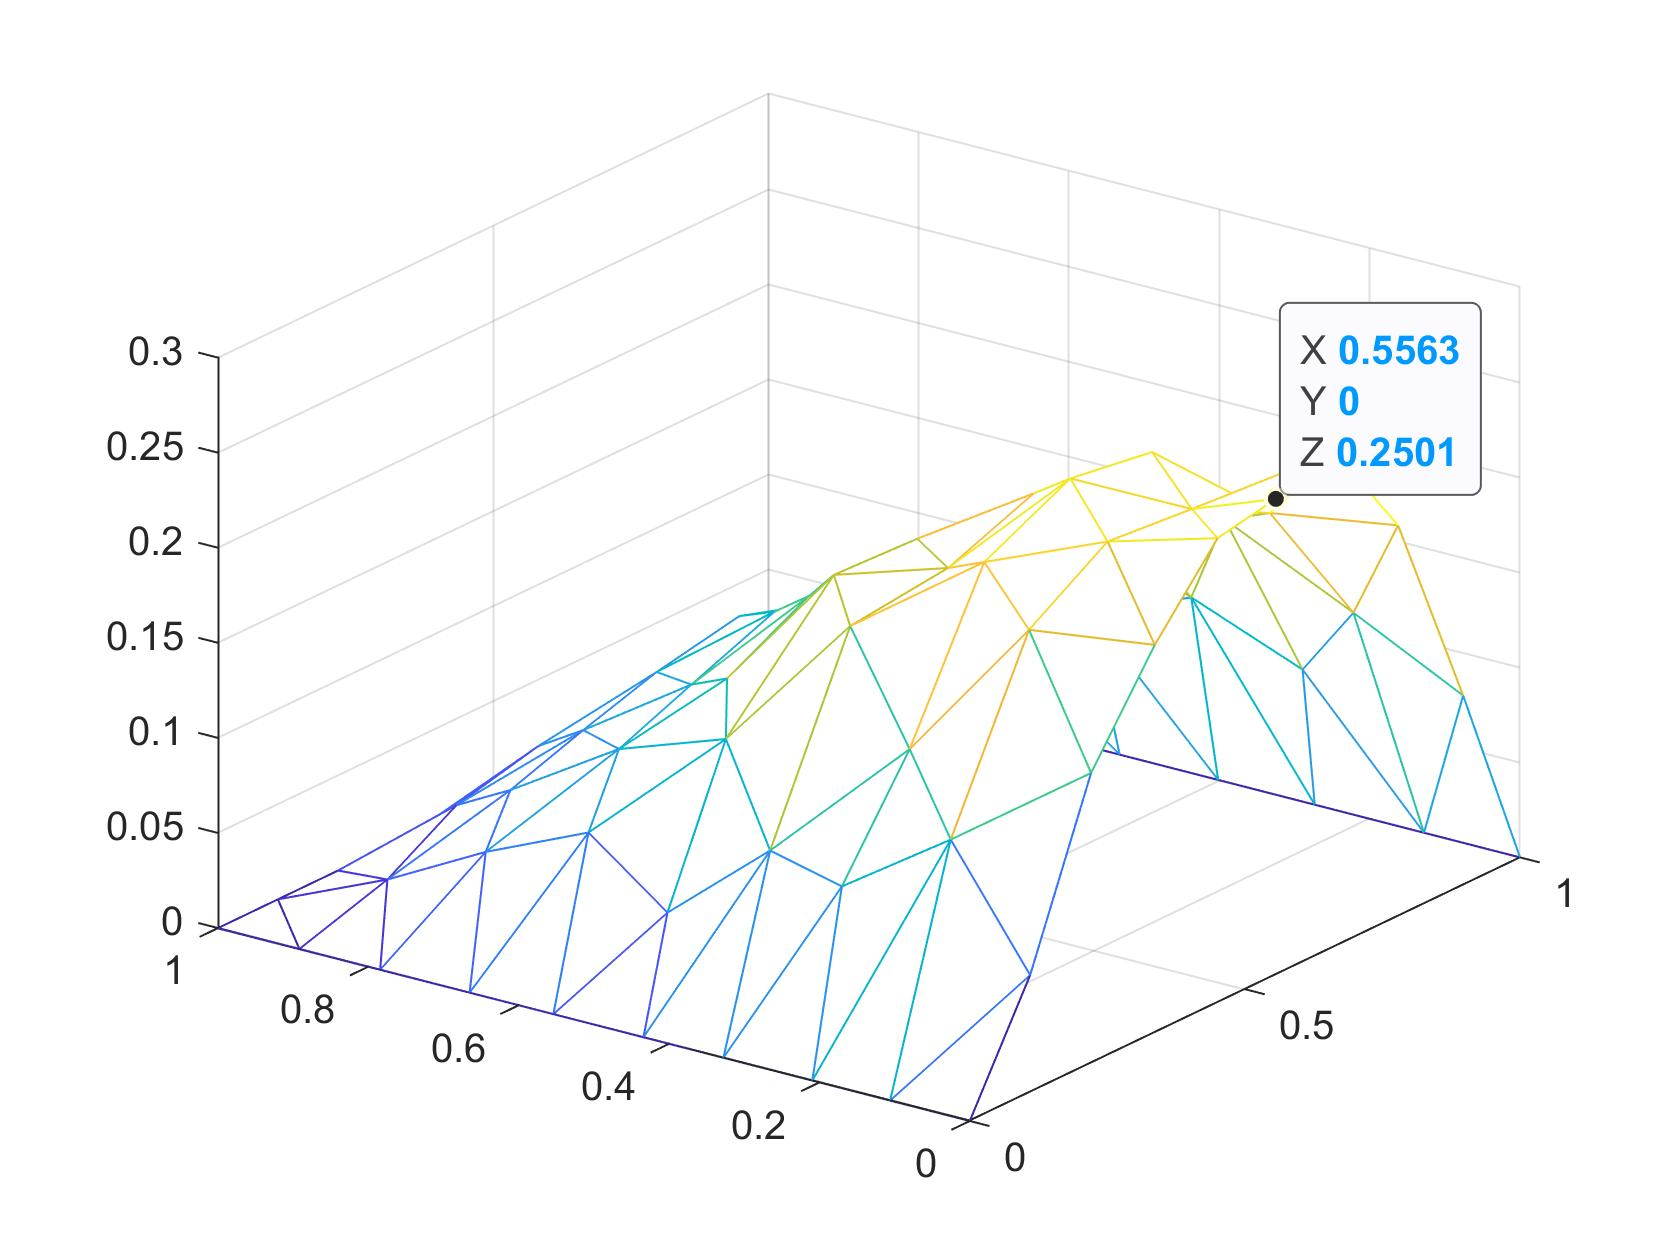
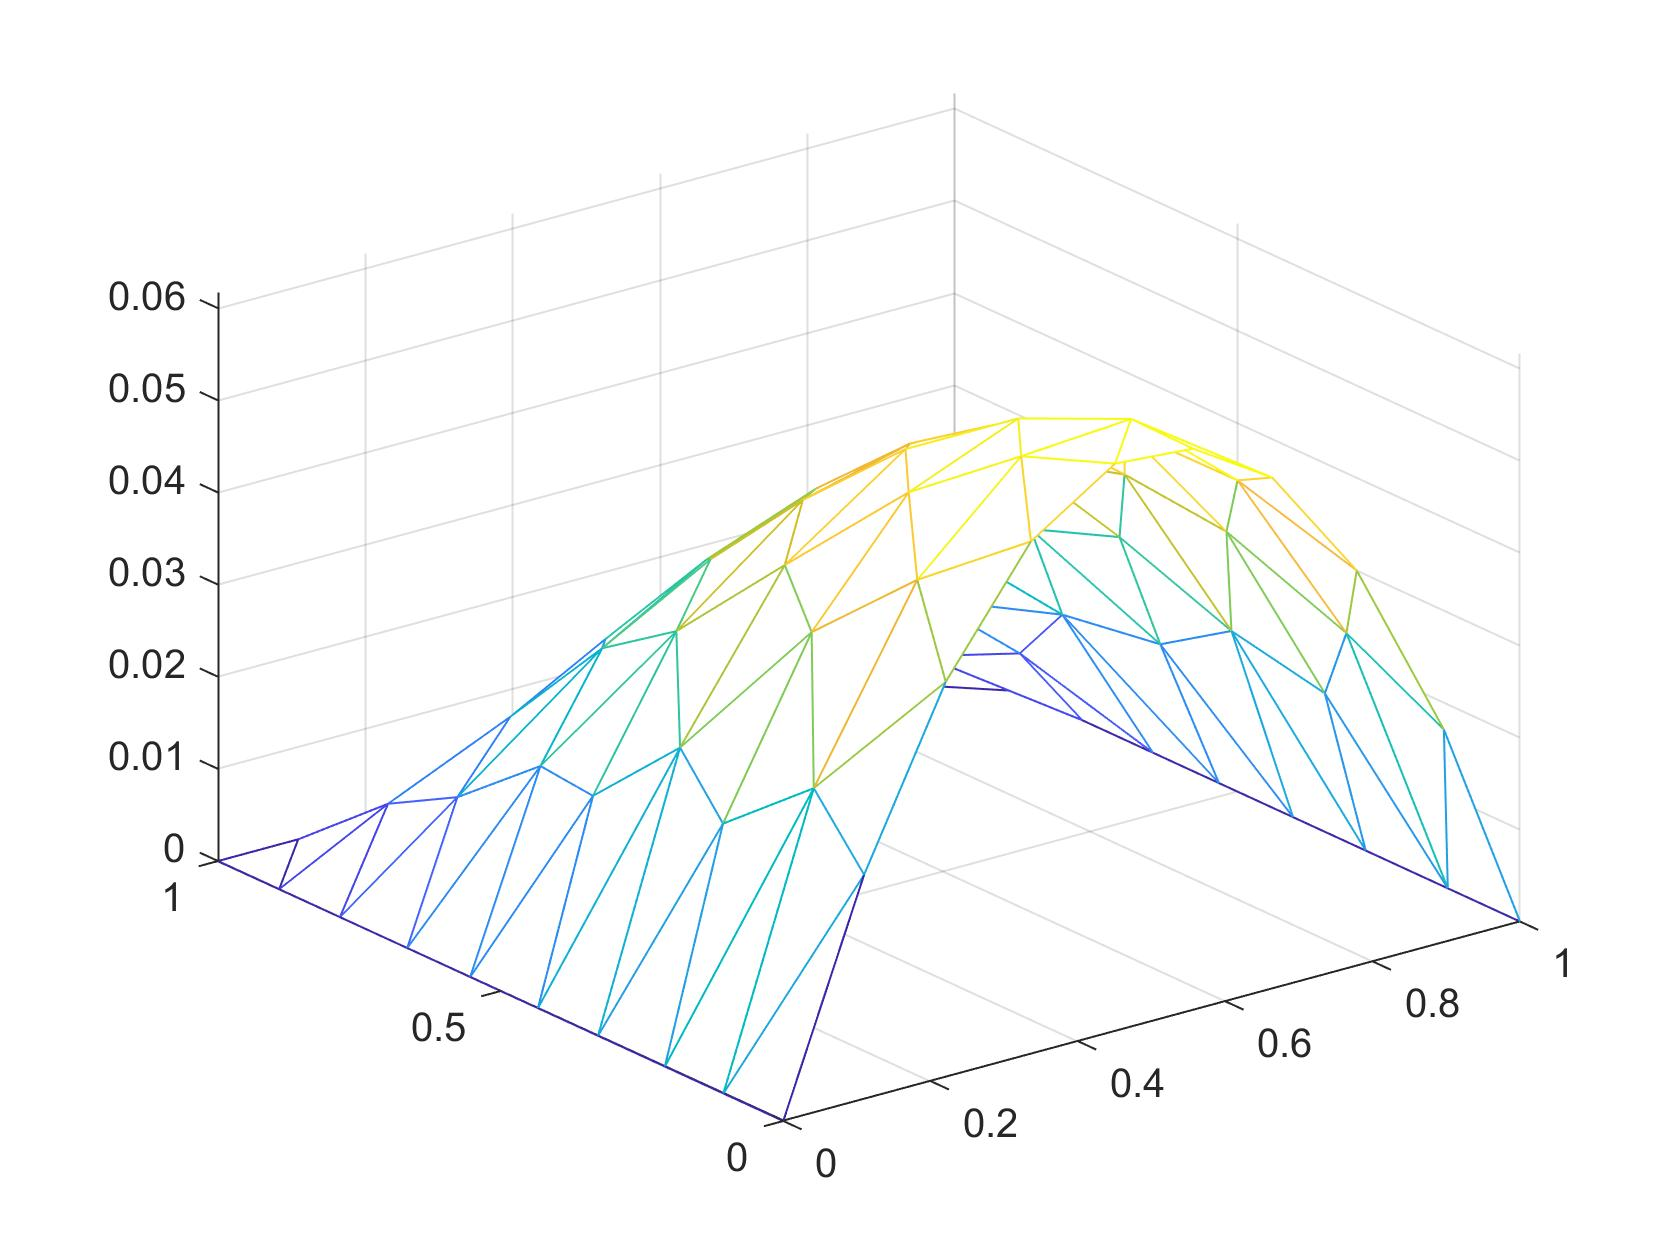
quadrature bug fix

diff --git a/2d/main_2d.m b/2d/main_2d.m
@@ -1,8 +1,8 @@
 clear all;
 
-assignin('base','filePath', 'C:\Users\monke\OneDrive\Desktop\5168\project\2d\Problem_2.2\Unstructured_Mesh');
+assignin('base','filePath', 'C:\Users\monke\OneDrive\Desktop\5168\project\2d\Problem_2.2\Mesh_1');
 read_2D_mesh;
-assignin('base','filePath', 'C:\Users\monke\OneDrive\Desktop\5168\project\2d\Problem_2.2\Unstructured_Mesh');
+assignin('base','filePath', 'C:\Users\monke\OneDrive\Desktop\5168\project\2d\Problem_2.2\Mesh_1');
 read_2D_input;
 
 
@@ -31,13 +31,13 @@ y=0:0.01:1;
 
 %2.1 Mixed exact solution
 
-%u_exact=(x.^2-x).*(y.^2-1);
+u_exact=(x.^2-x).*(y.^2-1);
 
 
 
 %2.2 exact solution (Inhomogenous Dirichlet)
 
-u_exact=(cosh(10*x)+cosh(10*y))/(2*cosh(10));
+%u_exact=(cosh(10*x)+cosh(10*y))/(2*cosh(10));
 
 surf(x,y,u_exact);
 %--------------------------------------------------------------------------

diff --git a/2d/element2D.m b/2d/element2D.m
@@ -4,6 +4,7 @@ fe = zeros(length(psi),1);
 degree = length(psi)-1;
 
 q = quadtriangle(3);
+q=quadtriangle(2,'Domain',[0 0; 0 1; 1 0],'Type','nonproduct');
 
 nElems = length(MESH.ConnectivityList);
 nNodes = length(MESH.Points);
@@ -36,5 +37,7 @@ for n = 1:nElems
         
         fe(i)=0.5*element_area*FofXY(n)*dot(q.Weights,bipolyval(psi(i).fun,q.Points));
         F(currElement(i)) = F(currElement(i))+fe(i);
+        
     end
 end
+
